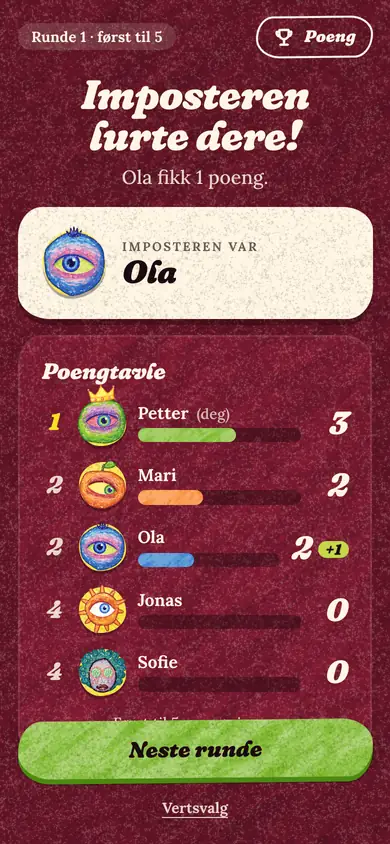
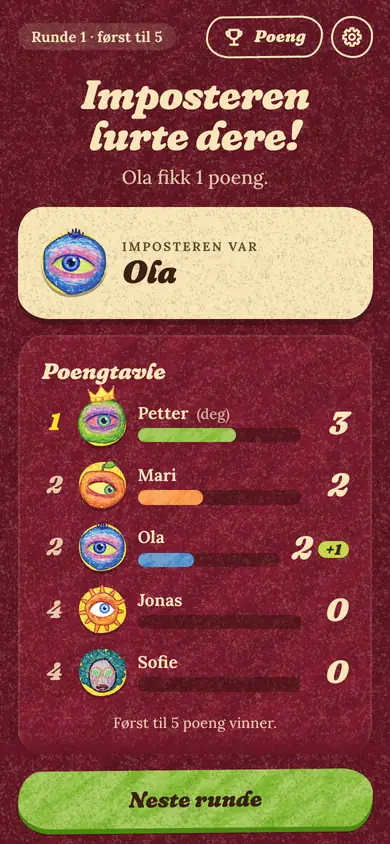
Vertsvalg bak et tannhjul, nye knapper på startsiden og logoen som tar deg hjem
- Verten får et tannhjul ved siden av «Poeng» i headeren på rundeskjermene. Det åpner vertsvalg: poengmål, hopp over runden,
  frakoblede spillere, avslutt spillet og «Slik spiller du». Poengtavla viser nå bare poengtavla (gjester har fortsatt
  «Slik spiller du» der). Den løse «Vertsvalg»-lenken under «Neste runde» er borte, siden tannhjulet sitter på samme skjerm.
- Startsidens to knapper heter «Opprett spill» og «Bli med i spill».
- Logoen i lobbyen (vert og gjest) er en knapp som spør «Tilbake til hjemskjermen?». En gjest forlater spillet og kan bli med
  igjen med koden. Verten av et spill på GitHub Pages avslutter det for alle, for vertens side er spillet; med en server
  forlater verten bare, og en annen blir vert. Arket ligger i en ny fil (screens/leave.js) av hensyn til
  ti-minutters-mellomlagringen av moduler.

Tester og verktøy:
- play.mjs sjekker tannhjulet (bare verten har det, innholdet, og at poengtavla ikke har vertsvalg), logoen for gjest og vert
  (avbryt, forlat, og at verten som avslutter i P2P-modus avslutter for alle andre), og bruker de nye knappetekstene.
- Nye fixtures for vertens egne skjermer (discussion-host, question-host) og de to nye arkene i fit, overlap og shots.
- fit.mjs avmonterer skjermen mellom hver fixture: en skjerm beholder ellers sin egen tilstand (valgt svar) fra den forrige,
  og to like skjermer etter hverandre ga feil mål.
- Dokumentasjon, README og stilguiden (knapper og skjermbilder) er oppdatert.

diff --git a/public/js/screens/round.js b/public/js/screens/round.js
@@ -6,15 +6,18 @@ import { actions } from '../net.js';
 import { serverNow } from '../net.js';
 import { asset } from '../paths.js';
 import { setStore } from '../store.js';
-import { Avatar, Button, RoleStrip, Scoreboard, Timer, TrophyIcon } from '../ui.js';
+import { Avatar, Button, GearIcon, RoleStrip, Scoreboard, Timer, TrophyIcon } from '../ui.js';
 import { cx, letter, playerById, useRemaining, vibrate } from '../util.js';
 
-/** Round number + score shortcut, shown above the in-round screens. */
+/** Round number + score shortcut, shown above the in-round screens. The host also has the gear with the host's options. */
 export function GameBar({ view }) {
   const round = view.turn?.number ?? view.summary?.round ?? view.round;
   return html`<header class="gamebar row row--between">
     <span class="chip">Runde ${round} · først til ${view.target}</span>
-    <${Button} variant="ghost" size="small" onClick=${() => setStore({ sheet: 'scores' })} aria-label="Se poengtavle"><${TrophyIcon} /> Poeng</${Button}>
+    <div class="row gamebar__actions">
+      <${Button} variant="ghost" size="small" onClick=${() => setStore({ sheet: 'scores' })} aria-label="Se poengtavle"><${TrophyIcon} /> Poeng</${Button}>
+      ${view.you.isHost && html`<${Button} variant="ghost" size="small icon" onClick=${() => setStore({ sheet: 'host' })} aria-label="Vertsvalg"><${GearIcon} /></${Button}>`}
+    </div>
   </header>`;
 }
 
@@ -253,9 +256,6 @@ export function Summary({ view }) {
     ${isHost
       ? html`<div class="dock">
           <${Button} block variant="lime" onClick=${() => actions.next()}>Neste runde</${Button}>
-          <div class="row row--center row--wrap">
-            <${Button} variant="text" onClick=${() => setStore({ sheet: 'host' })}>Vertsvalg</${Button}>
-          </div>
         </div>`
       : html`<p class="foot center muted" role="status">Venter på at verten starter neste runde …</p>`}
   </main>`;

diff --git a/public/js/screens/sheets.js b/public/js/screens/sheets.js
@@ -31,7 +31,6 @@ function HostControls({ view }) {
   const offline = view.players.filter((p) => !p.connected && !p.isHost);
   const bump = (d) => actions.target(Math.min(99, Math.max(1, view.target + d)));
   return html`<section class="stack">
-    <h3>Vertsvalg</h3>
     ${canTarget &&
     html`<div class="field">
       <span class="field__label">Poengmål</span>
@@ -64,14 +63,19 @@ export function ScoresSheet({ view }) {
         <${Scoreboard} view=${view} />
         <p class="small muted center">Først til ${view.target} poeng vinner.</p>
       </div>
-      ${view.you.isHost && html`<${HostControls} view=${view} />`}
-      <${Button} block variant="ghost" onClick=${() => setStore({ sheet: 'rules' })}>Slik spiller du</${Button}>
+      ${!view.you.isHost && html`<${Button} block variant="ghost" onClick=${() => setStore({ sheet: 'rules' })}>Slik spiller du</${Button}>`}
     </div>
   </${Sheet}>`;
 }
 
+/** What used to hang under the scoreboard for the host: the gear in the header of the round screens opens it. */
 export function HostSheet({ view }) {
-  return html`<${Sheet} title="Vertsvalg" onClose=${close}><${HostControls} view=${view} /></${Sheet}>`;
+  return html`<${Sheet} title="Vertsvalg" onClose=${close}>
+    <div class="stack stack--loose">
+      <${HostControls} view=${view} />
+      <${Button} block variant="ghost" onClick=${() => setStore({ sheet: 'rules' })}>Slik spiller du</${Button}>
+    </div>
+  </${Sheet}>`;
 }
 
 /** What used to be three loose links under the player list: change name or avatar, show the QR code, leave. */

diff --git a/public/js/screens/leave.js b/public/js/screens/leave.js
@@ -1,0 +1,33 @@
+// The modal behind the logo in the lobby: back to the start screen, which means leaving the game (and for the host of a
+// peer-to-peer game, ending it for everybody: the host's page is the game).
+// (A file of its own: pages are cached for ten minutes, and a new export in an old module would not be found by a new one.)
+
+import { html } from '../vendor/htm-preact.js';
+import { actions, forget } from '../net.js';
+import { isP2P } from '../settings.js';
+import { setStore } from '../store.js';
+import { Button, Sheet } from '../ui.js';
+
+const close = () => setStore({ sheet: null });
+
+export function HomeSheet({ view }) {
+  const isHost = view.you.isHost;
+  const endsForAll = isHost && isP2P;
+  const text = endsForAll
+    ? 'Du er verten, så spillet avsluttes for alle som er med.'
+    : isHost
+      ? 'Du forlater spillet, og en annen spiller blir vert.'
+      : 'Du forlater spillet. Du kan bli med igjen med koden så lenge spillet ikke har startet.';
+  const leave = () => {
+    close();
+    if (endsForAll) forget(); // stops the page that runs the game, which tells everybody that it is over
+    else actions.leave();
+  };
+  return html`<${Sheet} title="Tilbake til hjemskjermen?" onClose=${close}>
+    <div class="stack">
+      <p class="lead">${text}</p>
+      <${Button} block variant="cream" onClick=${close}>Bli i spillet</${Button}>
+      <${Button} block variant="pink" onClick=${leave}>${endsForAll ? 'Avslutt spillet' : 'Forlat spillet'}</${Button}>
+    </div>
+  </${Sheet}>`;
+}

diff --git a/public/js/app.js b/public/js/app.js
@@ -2,6 +2,7 @@ import { html, useEffect } from './vendor/htm-preact.js';
 import { Finished } from './screens/finale.js';
 import { Connecting, Home, SeatPicker } from './screens/home.js';
 import { Lobby } from './screens/lobby.js';
+import { HomeSheet } from './screens/leave.js';
 import { Profile } from './screens/profile.js';
 import { Countdown, Discussion, Question, RevealAsker, RoleReveal, Summary, WaitReveal } from './screens/round.js';
 import { HostSheet, QrSheet, RulesSheet, ScoresSheet, SettingsSheet } from './screens/sheets.js';
@@ -85,6 +86,7 @@ export function App() {
   else if (view && s.sheet === 'host') sheet = html`<${HostSheet} view=${view} />`;
   else if (view && s.sheet === 'qr') sheet = html`<${QrSheet} view=${view} />`;
   else if (view && s.sheet === 'settings') sheet = html`<${SettingsSheet} />`;
+  else if (view && s.sheet === 'home') sheet = html`<${HomeSheet} view=${view} />`;
 
   return html`
     ${offline && html`<div class="banner" role="status">${s.everOpened ? 'Mistet forbindelsen – kobler til igjen' : isP2P ? 'Får ikke kontakt med verten' : 'Får ikke kontakt med serveren'}</div>`}

diff --git a/public/js/ui.js b/public/js/ui.js
@@ -39,10 +39,11 @@ export function Button({ variant, size, block, class: cls, children, ...rest }) 
   </button>`;
 }
 
-export function Logo({ small = false }) {
-  return html`<span class=${cx('logo-sticker', small && 'logo-sticker--sm')}>
-    <img src=${asset('assets/logo/disputt-logo.svg')} alt="Disputt" width="300" height="130" />
-  </span>`;
+/** The logo sticker; with an `onClick` it is a button (the lobby uses it to go back to the start screen). */
+export function Logo({ small = false, onClick }) {
+  const cls = cx('logo-sticker', small && 'logo-sticker--sm', onClick && 'logo-sticker--button');
+  const img = html`<img src=${asset('assets/logo/disputt-logo.svg')} alt="Disputt" width="300" height="130" />`;
+  return onClick ? html`<button type="button" class=${cls} onClick=${onClick} aria-label="Til hjemskjermen">${img}</button>` : html`<span class=${cls}>${img}</span>`;
 }
 
 export const CloseIcon = () => html`<svg viewBox="0 0 24 24" width="22" height="22" fill="none" stroke="currentColor" stroke-width="3.2" stroke-linecap="round" aria-hidden="true"><path d="M5 5l14 14M19 5L5 19" /></svg>`;

diff --git a/public/design-system/ds.js b/public/design-system/ds.js
@@ -92,7 +92,7 @@ if (sizes) {
 
 // ---- screen gallery (images come from `npm run shots -- --docs`; missing ones are dropped silently)
 const SCREENS = [
-  ['home', 'Hjem', 'Start et spill, eller bli med med kode.'],
+  ['home', 'Hjem', 'Opprett spill, eller bli med i et spill med koden.'],
   ['profile-new', 'Profil', 'Navn og avatar. Tatte avatarer er utilgjengelige.'],
   ['lobby-host-3', 'Lobby – vert', 'QR-kode, spillere, poengmål og Start Disputt.'],
   ['lobby-guest-3', 'Lobby – spiller', 'Venter på verten. Kan se hvem som er med.'],
@@ -105,7 +105,7 @@ const SCREENS = [
   ['reveal-wrong', 'Avsløring: feil', 'Med riktig svar.'],
   ['summary-wrong-host', 'Oppsummering', 'Imposteren avsløres, poeng deles ut, verten går videre.'],
   ['finished-host', 'Vinner', 'Konfetti og krone. Spill igjen?'],
-  ['sheet-scores', 'Poengtavle', 'Åpnes fra alle skjermer. Verten får vertsvalg.'],
+  ['sheet-scores', 'Poengtavle', 'Åpnes fra alle skjermer. Verten har vertsvalg bak tannhjulet ved siden av «Poeng».'],
 ];
 const gallery = document.getElementById('screen-gallery');
 if (gallery) {

diff --git a/public/js/screens/lobby.js b/public/js/screens/lobby.js
@@ -109,7 +109,7 @@ function HostLobby({ view }) {
 
   return html`<main class="screen lobby">
     <header class="row row--between">
-      <${Logo} small />
+      <${Logo} small onClick=${() => setStore({ sheet: 'home' })} />
       <${Button} variant="ghost" size="small icon" onClick=${() => setStore({ sheet: 'rules' })} aria-label="Slik spiller du"><${HelpIcon} /></${Button}>
     </header>
 
@@ -181,7 +181,7 @@ function GuestLobby({ view }) {
   const me = view.players.find((p) => p.id === view.you.id);
   return html`<main class="screen screen--padded lobby">
     <header class="row row--between">
-      <${Logo} small />
+      <${Logo} small onClick=${() => setStore({ sheet: 'home' })} />
       <div class="row">
         <${Button} variant="ghost" size="small icon" onClick=${() => setStore({ sheet: 'settings' })} aria-label="Innstillinger"><${GearIcon} /></${Button}>
         <${Button} variant="ghost" size="small icon" onClick=${() => setStore({ sheet: 'rules' })} aria-label="Slik spiller du"><${HelpIcon} /></${Button}>

diff --git a/public/css/components.css b/public/css/components.css
@@ -511,6 +511,9 @@
 .logo-sticker img { width: min(62vw, 15rem); height: auto; }
 .logo-sticker--sm { padding: 0.45rem 1rem 0.6rem; box-shadow: 0 4px 0 var(--yellow-deep), 0 4px 0 1px var(--edge); }
 .logo-sticker--sm img { width: 6.4rem; }
+/* the logo as a button (the lobby: back to the start screen) */
+.logo-sticker--button { border: 0; cursor: pointer; font: inherit; color: inherit; -webkit-tap-highlight-color: transparent; transition: transform var(--dur-1) var(--ease-bounce), box-shadow var(--dur-1) ease; }
+.logo-sticker--button:active { transform: translateY(3px) rotate(-3deg); box-shadow: 0 1px 0 var(--yellow-deep), 0 1px 0 1px var(--edge); }
 
 /* ---- Role strip --------------------------------------------------------------------
    Reminds you of your role above the game screens. It is the same for everybody (a quiet strip that says "your role") until a

diff --git a/public/js/screens/home.js b/public/js/screens/home.js
@@ -19,8 +19,8 @@ export function Home() {
       ${s.notice && html`<p class="card card--yellow home__notice rise-in" role="status">${s.notice}</p>`}
     </div>
     <div class="dock">
-      <${Button} block onClick=${() => actions.create()} disabled=${s.conn !== 'open'}>Start et spill</${Button}>
-      <${Button} block variant="ghost" onClick=${() => setMode('code')}>Jeg har en kode</${Button}>
+      <${Button} block onClick=${() => actions.create()} disabled=${s.conn !== 'open'}>Opprett spill</${Button}>
+      <${Button} block variant="ghost" onClick=${() => setMode('code')}>Bli med i spill</${Button}>
       <div class="row row--center">
         <${Button} variant="text" onClick=${() => setStore({ sheet: 'rules' })}>Slik spiller du</${Button}>
       </div>

diff --git a/public/design-system/index.html b/public/design-system/index.html
@@ -194,13 +194,13 @@
     <h3>Knapper</h3>
     <div class="ds-demo ds-stack">
       <div class="ds-row">
-        <button class="btn">Start et spill</button>
+        <button class="btn">Opprett spill</button>
         <button class="btn btn--lime">Start Disputt</button>
         <button class="btn btn--orange">Hopp over</button>
         <button class="btn btn--pink">Avslutt spillet</button>
         <button class="btn btn--cream">Gå videre</button>
         <button class="btn btn--blue">Sekundær</button>
-        <button class="btn btn--ghost">Jeg har en kode</button>
+        <button class="btn btn--ghost">Bli med i spill</button>
         <button class="btn" disabled>Deaktivert</button>
       </div>
       <div class="ds-row">

diff --git a/public/css/screens.css b/public/css/screens.css
@@ -76,6 +76,7 @@ html[data-theme='wrong'] .dock { --dock-tex: var(--tex-light-soft); }
 
 /* ---- In-round header ---------------------------------------------------------- */
 .gamebar { gap: var(--s-3); }
+.gamebar__actions { gap: var(--s-2); }
 
 /* ---- Role reveal ----------------------------------------------------------------
    Nothing about the role is on the screen until a finger holds the button. The rest of the time the screen looks the same on

diff --git a/README.md b/README.md
@@ -10,7 +10,7 @@ Spillet er *mobile first*, uten kontoer og uten app: verten åpner nettsiden, de
 
 ### Test med venner (fra hvilket som helst nett)
 
-1. **Verten** åpner lenken over, trykker *Start et spill* og velger navn og avatar.
+1. **Verten** åpner lenken over, trykker *Opprett spill* og velger navn og avatar. De andre trykker *Bli med i spill* og skriver koden (eller skanner QR-koden).
 2. De andre **skanner QR-koden** på vertens skjerm, eller verten trykker *Del lenke* og sender den i en chat. Man kan også gå til siden og skrive den firebokstavers koden.
 3. Verten trykker *Start Disputt* når alle er med (minst tre).
 
@@ -25,7 +25,7 @@ Gode råd, fordi siden kjører uten spillserver (se [docs/P2P.md](docs/P2P.md)):
 5. Alle **diskuterer**. Imposteren prøver å lure de andre til å svare feil. Hvordan man blir enige er opp til gruppa.
 6. Spilleren med spørsmålet **krysser av** svaret dere ble enige om og låser det. Så telles det ned **5-4-3-2-1**, og fasiten avsløres **kun på den telefonen**.
 7. **Riktig svar:** alle lojale får 1 poeng. **Feil svar:** bare imposteren får 1 poeng. Ny runde med ny imposter, ny spiller og nytt spørsmål.
-8. Først til målet vinner. Poengtavlen kan åpnes når som helst, og verten kan justere poengmålet underveis.
+8. Først til målet vinner. Poengtavlen kan åpnes når som helst. Verten har et tannhjul ved siden av «Poeng» med vertsvalg: justere poengmålet, hoppe over runden, fjerne frakoblede spillere og avslutte spillet.
 
 ### Valg som er tatt (og kan endres)
 
@@ -33,6 +33,7 @@ Gode råd, fordi siden kjører uten spillserver (se [docs/P2P.md](docs/P2P.md)):
 - **Imposter og spørsmålsstiller er rent tilfeldige** (kryptografisk tilfeldig), uavhengig av hverandre. Samme spiller kan være begge deler, og samme person kan bli imposter flere ganger på rad.
 - **Poengene telles først når spilleren som svarte trykker «Gå videre»**, så poengtavlen ikke røper utfallet før avsløringen.
 - **Rollen (og imposterens riktige svar) kan sees igjen** under runden ved å holde inne knappen i stripen øverst («Hold for å se»). Slipper man, skjules den. Stripen, tipset under klokka og vibrasjonen er like for begge roller, så ingenting på skjermen røper hvem som er imposter.
+- **Logoen i lobbyen er en knapp** som tar deg tilbake til hjemskjermen, etter en bekreftelse. En gjest forlater spillet (og kan bli med igjen med koden så lenge spillet ikke har startet). Verten av et spill på GitHub Pages avslutter spillet for alle, fordi vertens side *er* spillet.
 - **Mistet forbindelsen?** Telefoner som sovner eller laster siden på nytt kommer rett tilbake til samme sted. Har en spiller mistet nettleseren helt, kan hen velge seg selv fra «Spillet har startet»-skjermen. Faller verten ut, overtar en annen spiller vertsrollen (etter 3 minutter under spillet, 10 minutter i lobbyen). Verten kan hoppe over en runde som står fast, eller fjerne en frakoblet spiller.
 - **Bare de som er med i runden kan score på den.** Er en spiller borte når runden starter, får hen verken rolle eller poeng for den runden, så ingen kan «vinne» ved å være fraværende.
 - **Skjermlås:** på vanlig `http` (f.eks. lokalt Wi‑Fi) kan ikke nettsiden holde skjermen våken. Appen kobler seg til igjen av seg selv når telefonen våkner, men det er smidigere om dere setter skjermlåsen til «Aldri» mens dere spiller. Over `https` (Render, tunnel) holdes skjermen våken automatisk.
